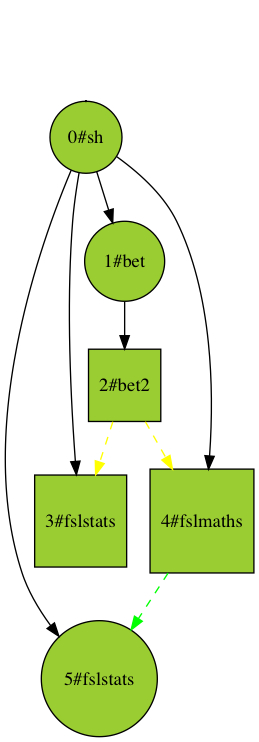
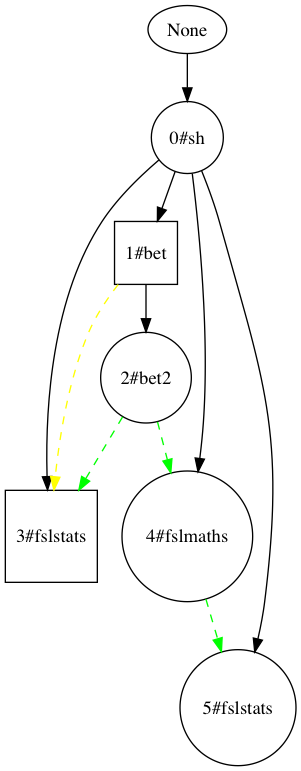
Add graph creation images

diff --git a/paper.tex b/paper.tex
@@ -277,10 +277,21 @@ arguments of a process that created errors, and calls P's original
 executable otherwise. The replacement is done through the PATH variable, as before. This algorithm converges to a process graph
 without any \emph{unknown} process after a finite number of iterations.
 
-Figure~\ref{fig:iterations} illustrates this iterative process on the previous
-exemplar pipeline.
+\begin{figure}
+  \includegraphics[scale=0.3]{images/iterative_modif}
+  \caption{iteration of proposed modification.}
+  \label{fig:iterations}
+\end{figure}
 
-\todo{Explain how graphs are represented.}
+Figure~\ref{fig:iterations} illustrates the modification process iteratively in three steps for the previous example.
+ Processes that created errors are shown in red, processes that removed errors are in blue,
+ yellow nodes are the processes which propagate errors, and other processes are in green.
+ For instance, in step one after correcting bet process, fslmaths is recognized as a red process in the next step.
+In fact, the created graph in a real pipeline execution is much more complex. 
+To simplicity of intricate graph and tracing processes comprehensible, 
+the original graph compacted to several subgraphs using a compression technique. 
+The compression technique will apply, (1) build subgraphs for every interesting node (e.g. red and blue nodes with their children)
+ (2) remove the interesting nodes from graph (3) finding largest connected components in the remaining nodes (iteratively).
 
 \section{Results}
 
